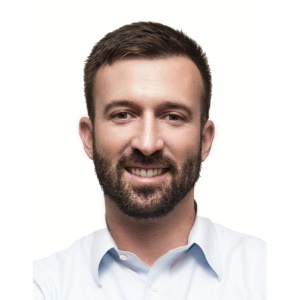
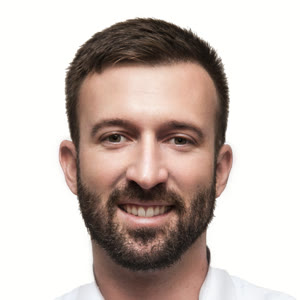
ADSUG: line up member cards, keep long titles out of the footer, refit Torrey photo (#714)

diff --git a/_includes/_adsug/adsug.md b/_includes/_adsug/adsug.md
@@ -18,9 +18,27 @@
     margin-top: 10px;
 }
 .textlabel {
-    height: 50px;
+    min-height: 50px;
     text-align: left;
     padding-left: 10px;
+}
+
+/* Cards sit in a wrapping row of equal widths, so a long title wraps instead
+   of widening its card, and the row grows to fit it rather than spilling into
+   the footer. Linked names get a 44px tap target from _layout.scss; names
+   without a link get the same spacing so every name lines up. */
+.adsug-members {
+    display: flex;
+    flex-wrap: wrap;
+    align-items: flex-start;
+}
+.adsug-members > div {
+    width: 200px;
+}
+.textlabel p > b {
+    display: inline-block;
+    min-height: 44px;
+    padding-block: 10px;
 }
 
 </style>
@@ -54,7 +72,7 @@ The ADSUG will summarize its deliberations in a written report to the PI, and it
 
 For more information, please read [ADSUG's charter]({{ include.root }}/charter.html).
 
-<div>
+<div class="adsug-members">
 
 <div style="float:left;">
   <div class="floated_img">
